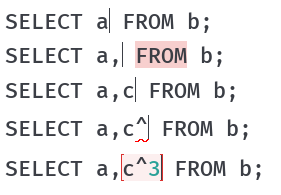
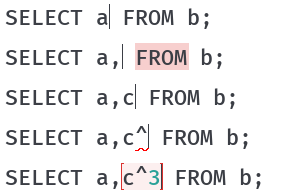
Continue fiddling with caption.

diff --git a/auto_lbox.tex b/auto_lbox.tex
@@ -230,16 +230,22 @@ the ability to take the user's previous input into consideration) which, when
 combined, lead to an effective heuristic for many cases (see Figure \ref{intro_example} for an example).
 
 \begin{figure}
-    \includegraphics[width=0.3\textwidth]{images/auto_remove_insert_sql_java}
-    \caption{\laurie{we need to add line numbers or a) b) c) annotations to the side (in \LaTeX, not in the image)}Automatic language boxes in action with a composition of SQL
+    \includegraphics[width=0.25\textwidth]{images/auto_remove_insert_sql_java}
+    \begin{picture}(0,0)
+        \put(-145,78){\textcolor{black}{\textbf{(a)}}}
+        \put(-145,59){\textcolor{black}{\textbf{(b)}}}
+        \put(-145,41){\textcolor{black}{\textbf{(c)}}}
+        \put(-145,23){\textcolor{black}{\textbf{(d)}}}
+    \end{picture}
+    \caption{Automatic language boxes in action with a composition of SQL
       and Java, where Java expressions can be used wherever SQL expressions
-      are valid. The initial input is \texttt{SELECT a FROM b;}, with the user
-      putting their cursor immediately after `\texttt{a}' and typing `\texttt{,c\^3}'.
-    The user starts with a valid SQLite program. \textbf{b)} After typing
+      are valid. The initial input is `\texttt{SELECT a FROM b;}', with the user
+      putting their cursor immediately after `\texttt{a}' and typing `\texttt{,c\textasciicircum3}'.
+    \textbf{a)} The user starts with a valid SQLite program. \textbf{b)} After typing
     `\texttt{,}' an error occurs which is fixed by automatically wrapping
     `\texttt{FROM}' inside a Java language box.  \textbf{c)} After typing
     `\texttt{c}' the language box is removed again, since `\texttt{FROM}' is
-    valid in the outer language again. Typing `\texttt{\textasciicircum3}' produces an error
+    valid in the outer language again. \textbf{d)} Typing `\texttt{\textasciicircum3}' produces an error
     which is fixed by wrapping the expression `\texttt{c\textasciicircum3}' inside a Java
     language box.
 }
